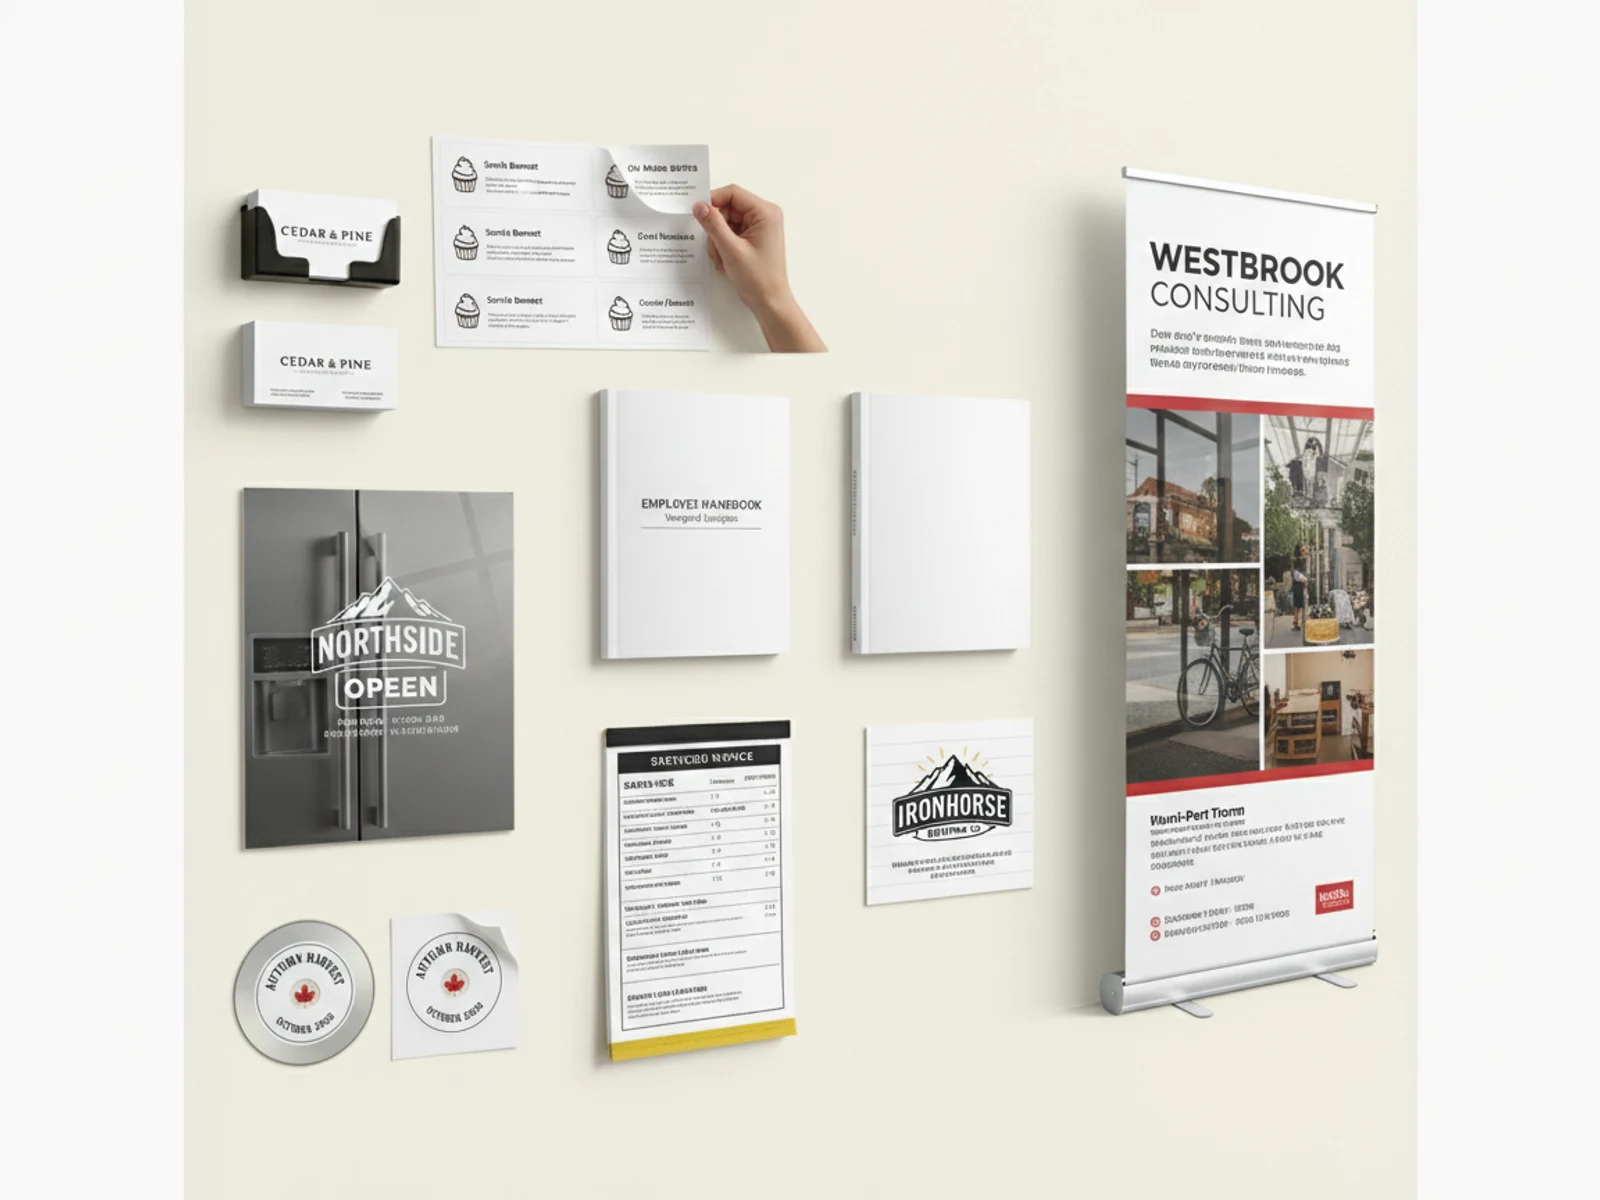
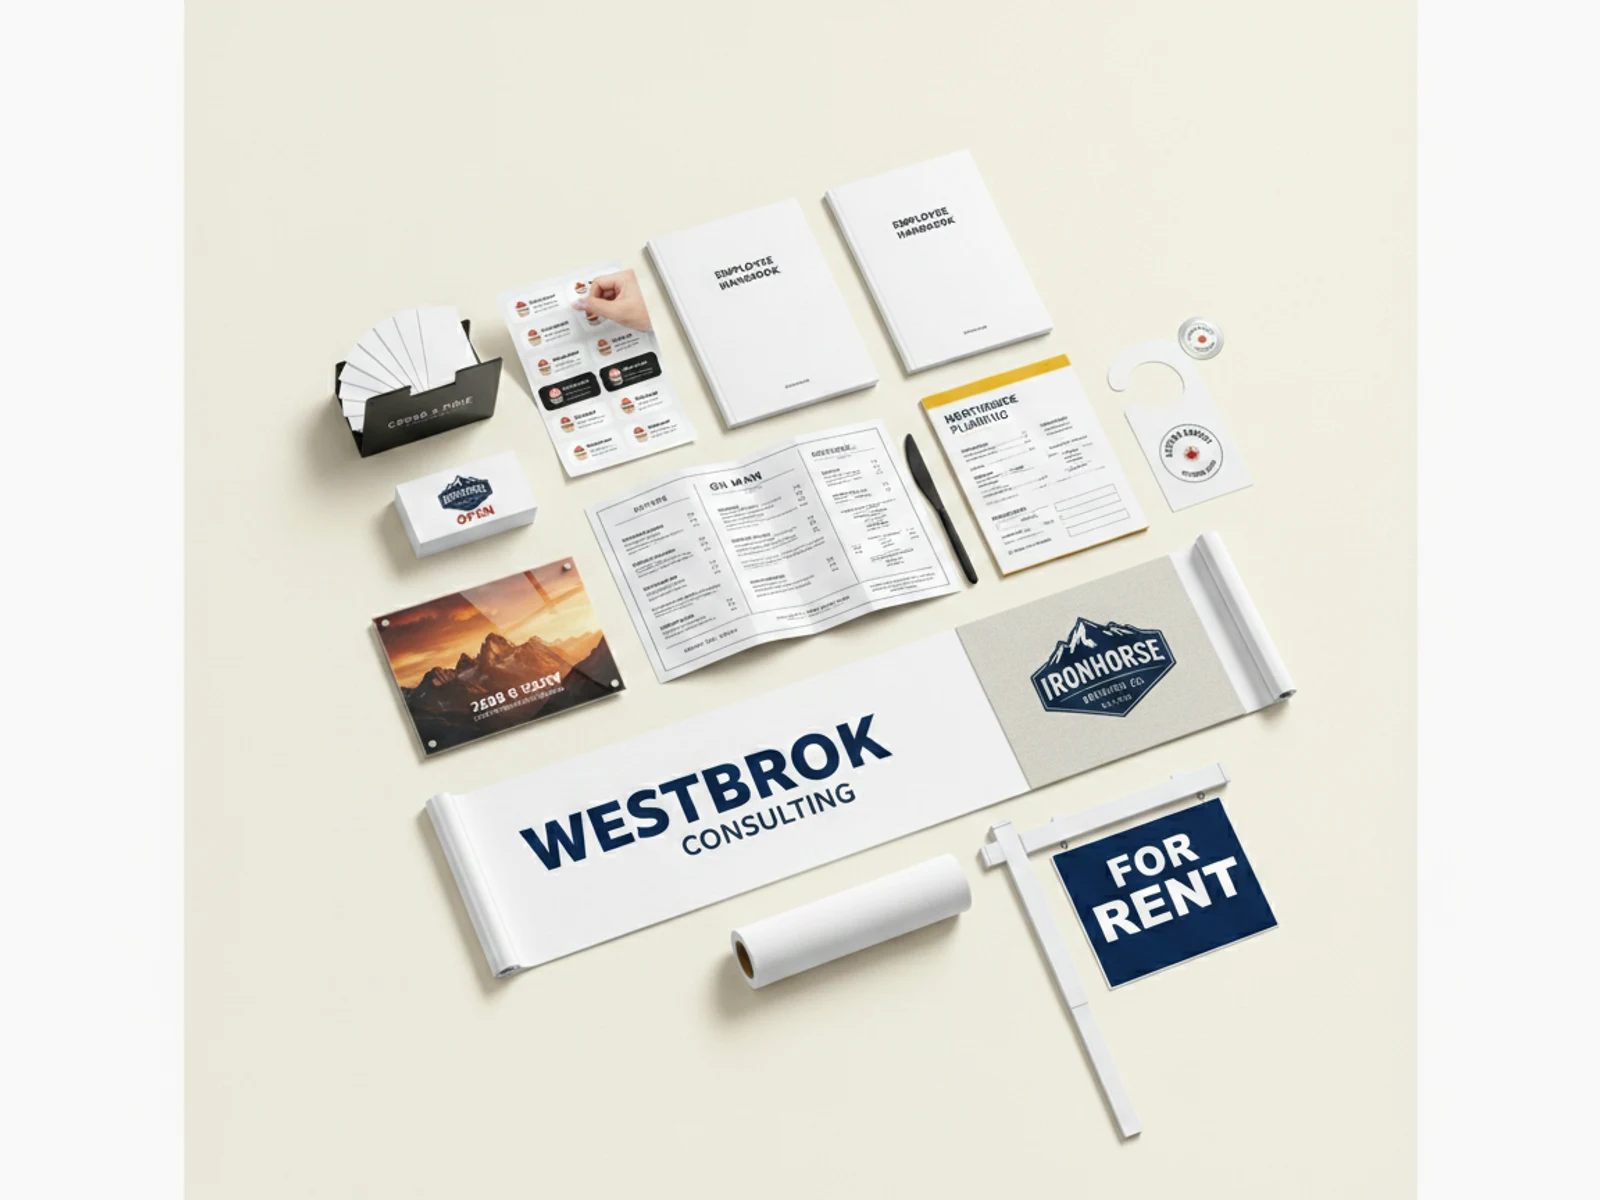
fix(cards): custom-printing flat-lay enforcement
The first Gemini composite for custom-printing showed a roll-up banner
standing upright against a wall — broke the overhead flat-lay convention
used by every other card. Added per-category guidance map; for
custom-printing it now enforces: every item lies flat, banner unrolled
on the table with its stand on its side, yard sign with stake disconnected,
brochures/booklets/cards flat. Regenerated.

diff --git a/scripts/gemini-composite-cards.ts b/scripts/gemini-composite-cards.ts
@@ -159,8 +159,21 @@ async function resolveImage(p: SampleProduct): Promise<Buffer | null> {
   }
 }
 
-function buildPrompt(catName: string, items: { subName: string }[]): string {
+/** Per-category extra guidance appended to the base prompt. Used to enforce
+ *  category-specific layout rules (e.g. custom-printing items must lie flat,
+ *  not stand upright). */
+const CATEGORY_GUIDANCE: Record<string, string> = {
+  "custom-printing":
+    "FLAT-LAY ENFORCEMENT (critical for this category): EVERY item must lie FLAT on the cream paper backdrop as if photographed from directly above. NO standing items. NO wall-mounted items. NO upright orientation. Roll-up banner stands must be lying flat on their side with the banner partially unrolled across the surface. Business cards fanned out flat. Brochures and booklets lying flat (closed, half-open, or fully open spread). Stickers lying flat. Magnets lying flat. Posters rolled and lying flat OR unrolled flat. Yard signs lying flat with the stake disconnected to the side. All items respect gravity — they sit on the tabletop, nothing floats or stands vertical.",
+};
+
+function buildPrompt(
+  catSlug: string,
+  catName: string,
+  items: { subName: string }[],
+): string {
   const itemList = items.map((i, n) => `${n + 1}. ${i.subName}`).join("\n");
+  const extra = CATEGORY_GUIDANCE[catSlug];
   return [
     `Combine the ${items.length} attached reference photos into a SINGLE overhead 4:3 e-commerce category hero image for the "${catName}" category.`,
     ``,
@@ -181,6 +194,7 @@ function buildPrompt(catName: string, items: { subName: string }[]): string {
     `- Photoreal commercial product photography, magazine-quality but understated (no glamour staging, no models, no lifestyle scene).`,
     `- 4:3 aspect ratio, designed for an e-commerce category card.`,
     `- No text overlays. No invented logos. No real trademarks.`,
+    ...(extra ? [``, extra] : []),
   ].join("\n");
 }
 
@@ -223,7 +237,7 @@ async function buildCard(catSlug: string) {
     return;
   }
 
-  const prompt = buildPrompt(cat.name, usedItems);
+  const prompt = buildPrompt(cat.slug, cat.name, usedItems);
   console.log(`  → asking Gemini (${refs.length} refs, ~${prompt.length} char prompt)…`);
 
   let base64: string | null = null;
